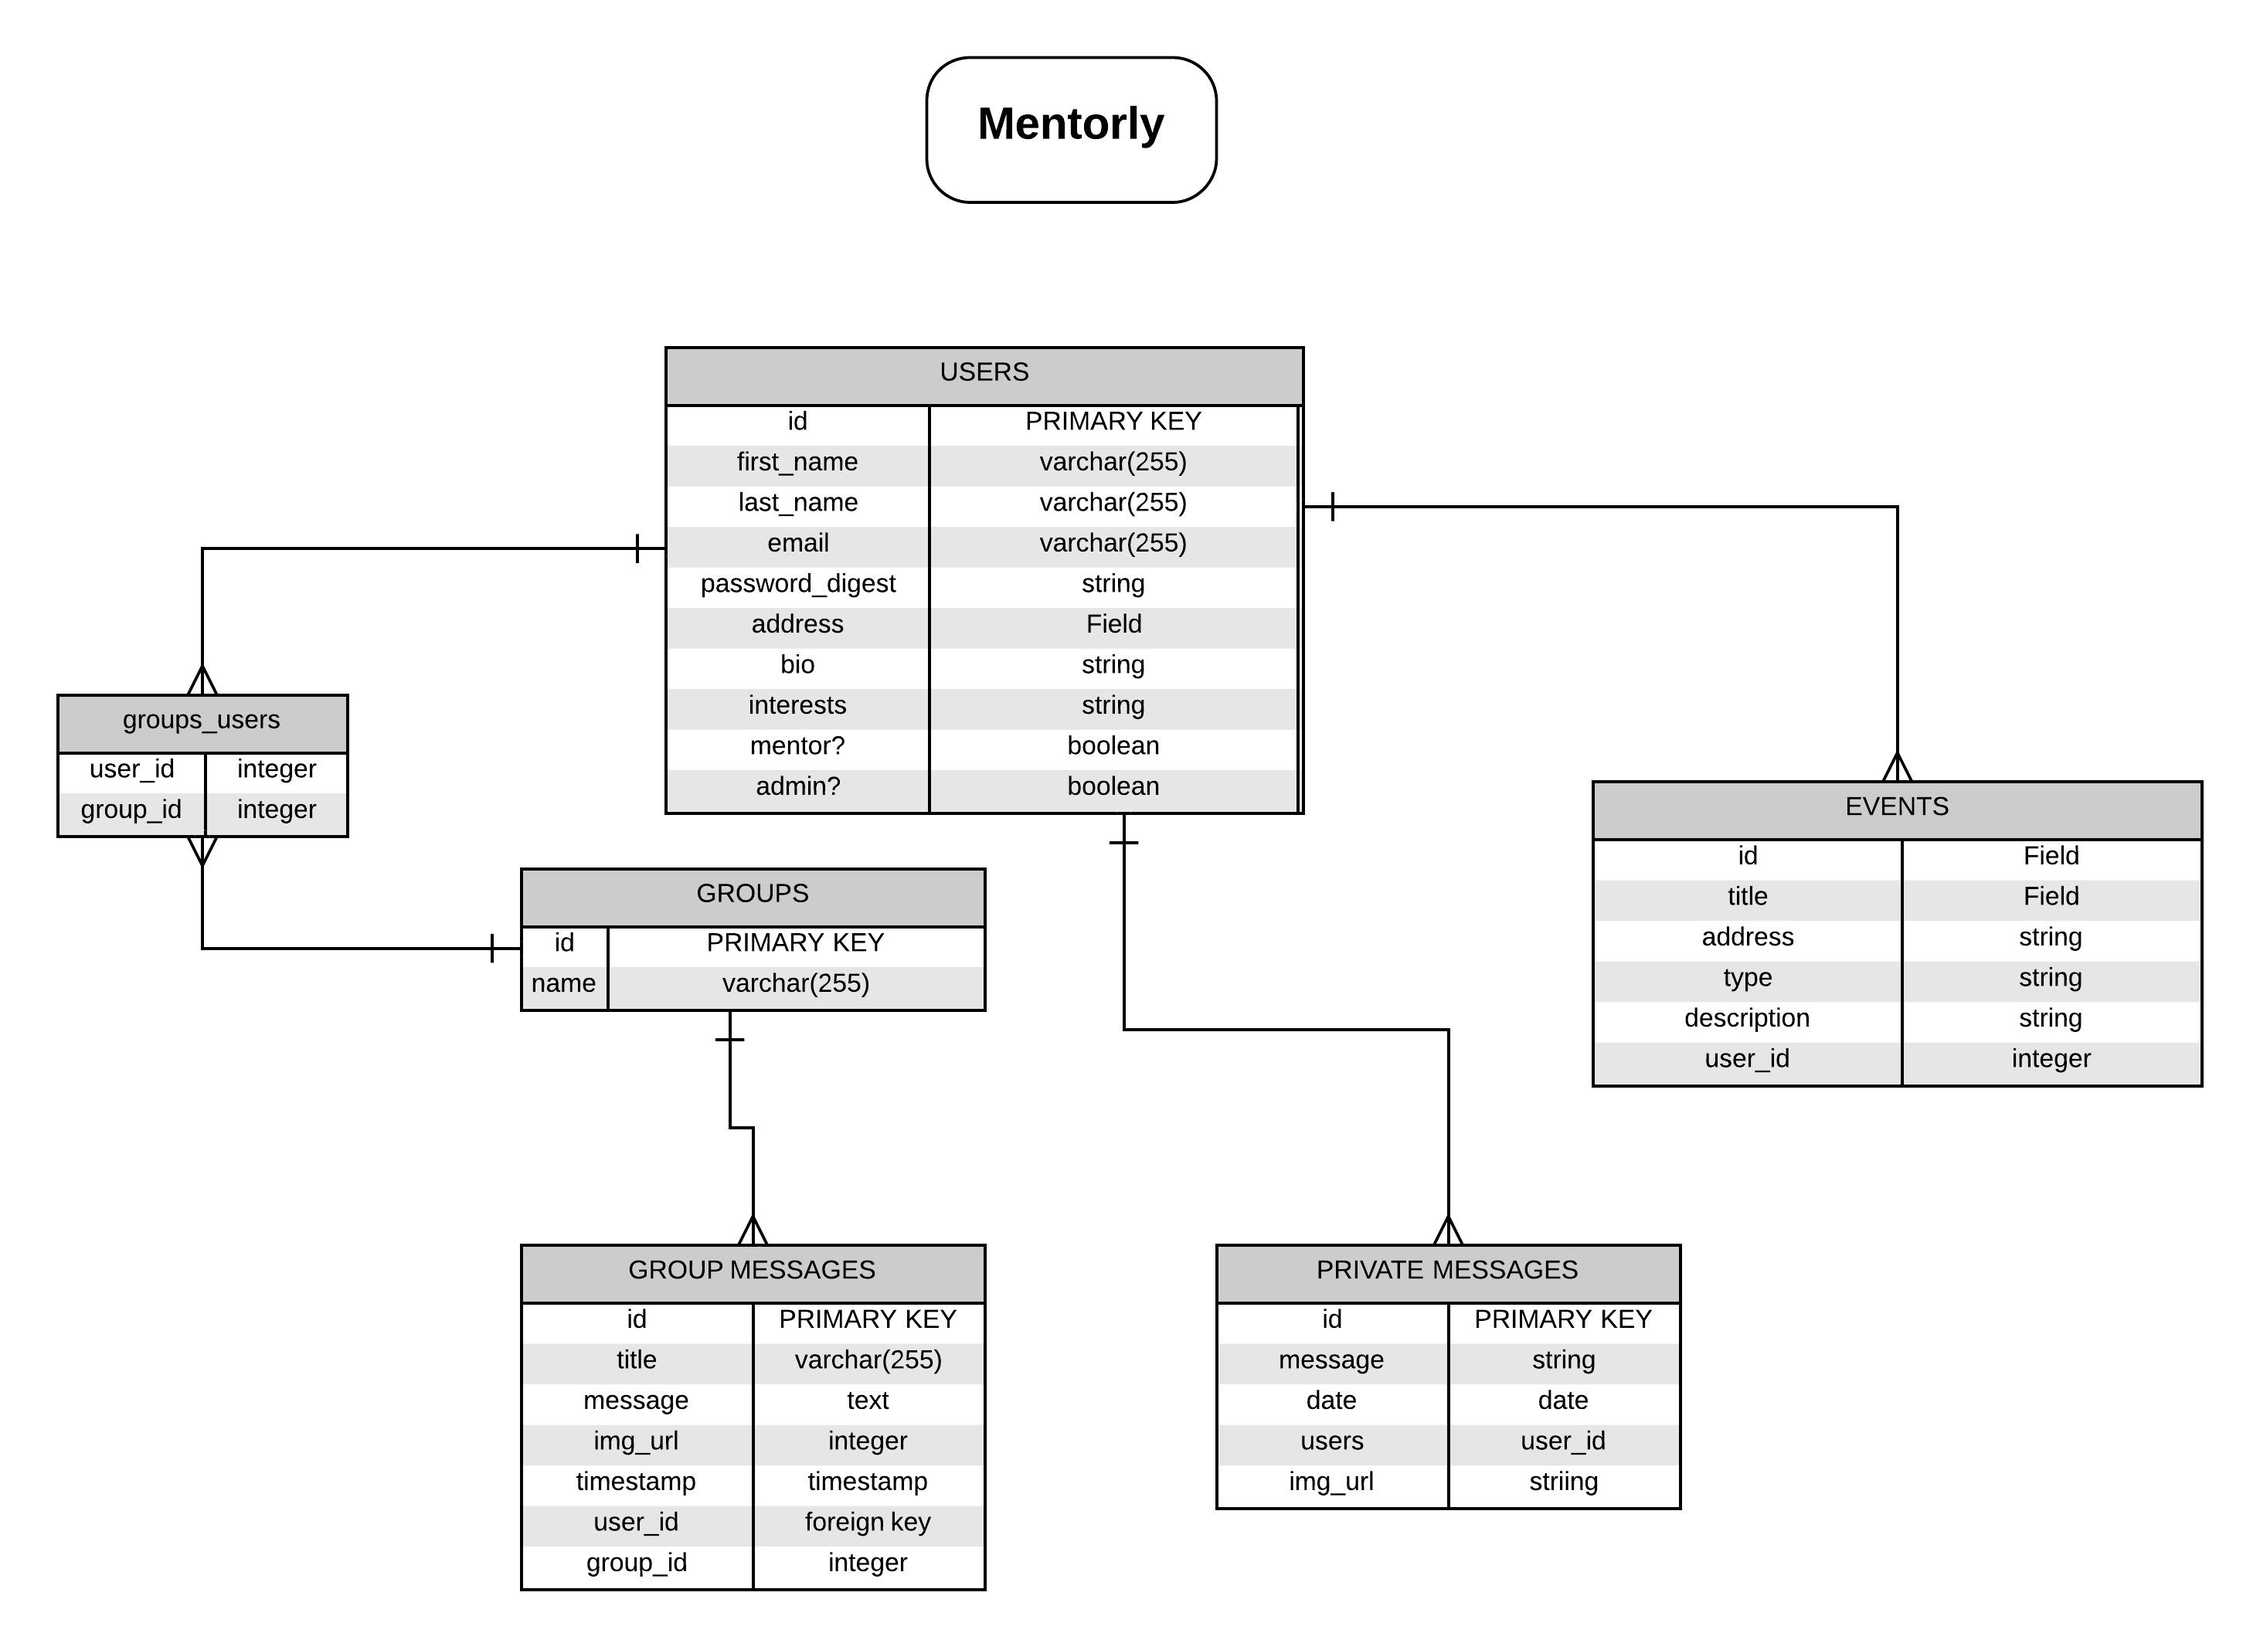
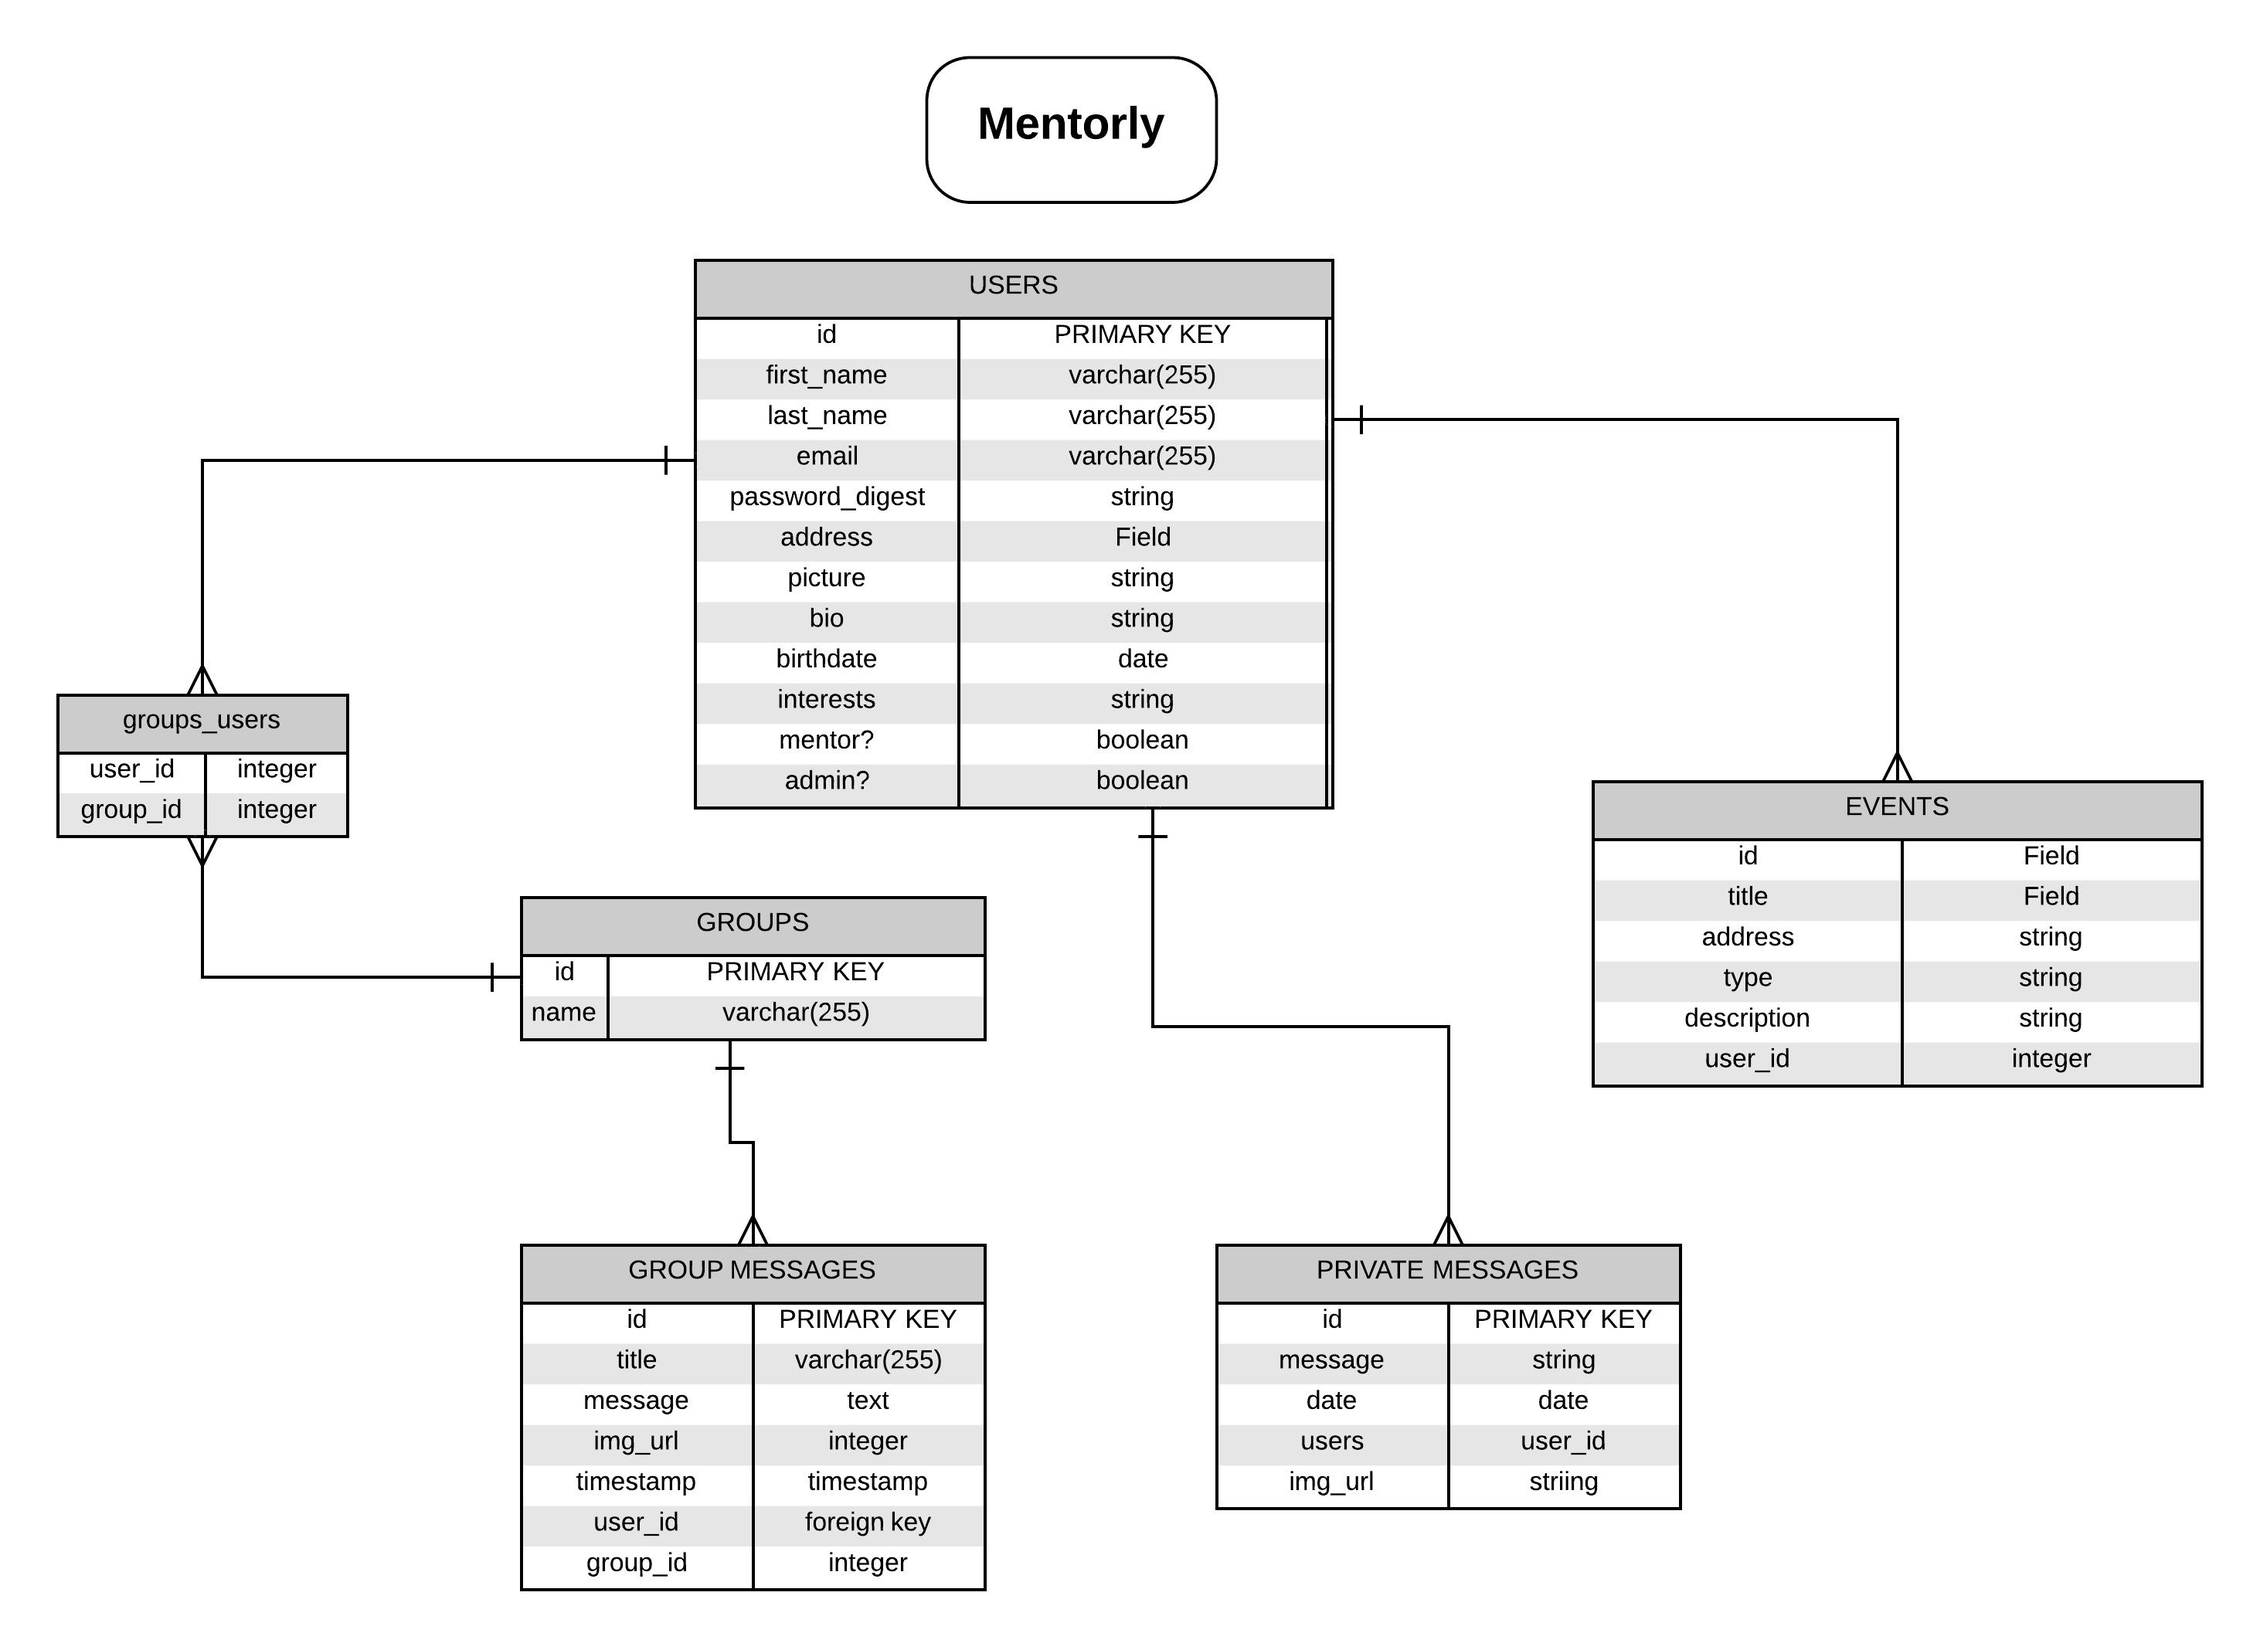
add users database

Changed region(s): [[0.28, 0.1545, 0.5911, 0.4944], [0.2178, 0.5253, 0.4356, 0.6489], [0.4978, 0.618, 0.6222, 0.6489]]

diff --git a/db/schema.rb b/db/schema.rb
@@ -1,0 +1,32 @@
+# encoding: UTF-8
+# This file is auto-generated from the current state of the database. Instead
+# of editing this file, please use the migrations feature of Active Record to
+# incrementally modify your database, and then regenerate this schema definition.
+#
+# Note that this schema.rb definition is the authoritative source for your
+# database schema. If you need to create the application database on another
+# system, you should be using db:schema:load, not running all the migrations
+# from scratch. The latter is a flawed and unsustainable approach (the more migrations
+# you'll amass, the slower it'll run and the greater likelihood for issues).
+#
+# It's strongly recommended that you check this file into your version control system.
+
+ActiveRecord::Schema.define(version: 20140328175323) do
+
+  # These are extensions that must be enabled in order to support this database
+  enable_extension "plpgsql"
+
+  create_table "users", force: true do |t|
+    t.string  "name"
+    t.string  "email"
+    t.string  "password_digest"
+    t.string  "address"
+    t.string  "picture_url"
+    t.text    "bio"
+    t.date    "birthdate"
+    t.string  "interests"
+    t.boolean "mentor?"
+    t.boolean "admin?"
+  end
+
+end

diff --git a/app/controllers/users_controller.rb b/app/controllers/users_controller.rb
@@ -1,0 +1,72 @@
+class UsersController < ApplicationController
+
+	before_action :authenticate, only: [:new, :create, :edit, :update, :destroy]
+	
+	def index
+
+		@users = User.all
+
+	end
+
+	def show
+
+		@user = User.find(params[:id])
+
+	end
+
+	def new
+
+		@user = User.new
+
+	end
+
+
+	def create
+
+		@user = User.new(user_params)
+
+		if @user.save
+			redirect_to @user
+		else
+			render 'new'
+		end
+	end
+
+	def edit
+
+		@user = User.find(params[:id])
+		if current_user == @user
+			render 'edit'
+		else
+			redirect_to root_path
+		end
+	end
+
+
+	def update
+
+		@user = User.find(params[:id])
+		if current_user == @user
+			@user.update(user_params)
+			redirect_to @user
+		else
+			redirect_to root_path
+		end
+
+	end
+
+
+	def destroy
+
+		@user = User.find(params[:id])
+		@user.destroy
+		redirect_to users_path
+
+	end
+
+	private
+	def user_params
+		params.require(:user).permit(:name, :email, :password, :password_confirmation, :admin, :balance)
+	end
+
+end

diff --git a/db/migrate/20140328175323_create_user.rb b/db/migrate/20140328175323_create_user.rb
@@ -1,0 +1,16 @@
+class CreateUser < ActiveRecord::Migration
+  def change
+    create_table :users do |t|
+    	t.string "name"
+    	t.string "email"
+    	t.string "password_digest"
+    	t.string "address"
+    	t.string "picture_url"
+    	t.text "bio"
+    	t.date "birthdate"
+    	t.string "interests"
+    	t.boolean "mentor?"
+    	t.boolean "admin?"
+    end
+  end
+end

diff --git a/config/routes.rb b/config/routes.rb
@@ -1,4 +1,9 @@
 Mentorly::Application.routes.draw do
+ 
+
+
+
+
   # The priority is based upon order of creation: first created -> highest priority.
   # See how all your routes lay out with "rake routes".
 

diff --git a/app/models/user.rb b/app/models/user.rb
@@ -1,0 +1,7 @@
+class User < ActiveRecord::Base
+
+
+	
+
+
+end

diff --git a/README.md b/README.md
@@ -2,9 +2,9 @@
 
 As a strategy for helping people succeed in life, mentoring works to those open to it. It helps give people the confidence, resources and skills they need to reach their potential.
 
-But like any development strategy, mentoring works best when measures are taken to ensure quality and effectiveness. When the tool of change is a close relationship, as is the case with mentoring, everyone involved should proceed with care. The risks and improvements to the pefor rson are proportional to how long the relationship endures. The longer a relationship lasts, usually the closer the bond and the greater benefit the mentee.
+But like any development strategy, mentoring works best when measures are taken to ensure quality and effectiveness. When the tool of change is a close relationship, as is the case with mentoring, everyone involved should proceed with care. The risks and improvements to the person are proportional to how long the relationship endures. The longer a relationship lasts, usually the closer the bond and the greater benefit the mentee.
 
-With Mentor.ly we hope to bridge the gap and create a medium to facilitate this 
+With Mentorly we hope to bridge the gap and create a medium to facilitate this.
 
 
 --------------------
@@ -23,10 +23,11 @@ Once this process is complete the organization would be presented with recommend
 
 Mentors would be able to organize meetup's, schedule events and offer words of advice or wisdom at any given time.
 
+Members would also be able to send mailbox messages to eacher other.
 
 ----------------------- 
 
-User Stories
+##User Stories
 
 https://www.pivotaltracker.com/s/projects/1047178
 
